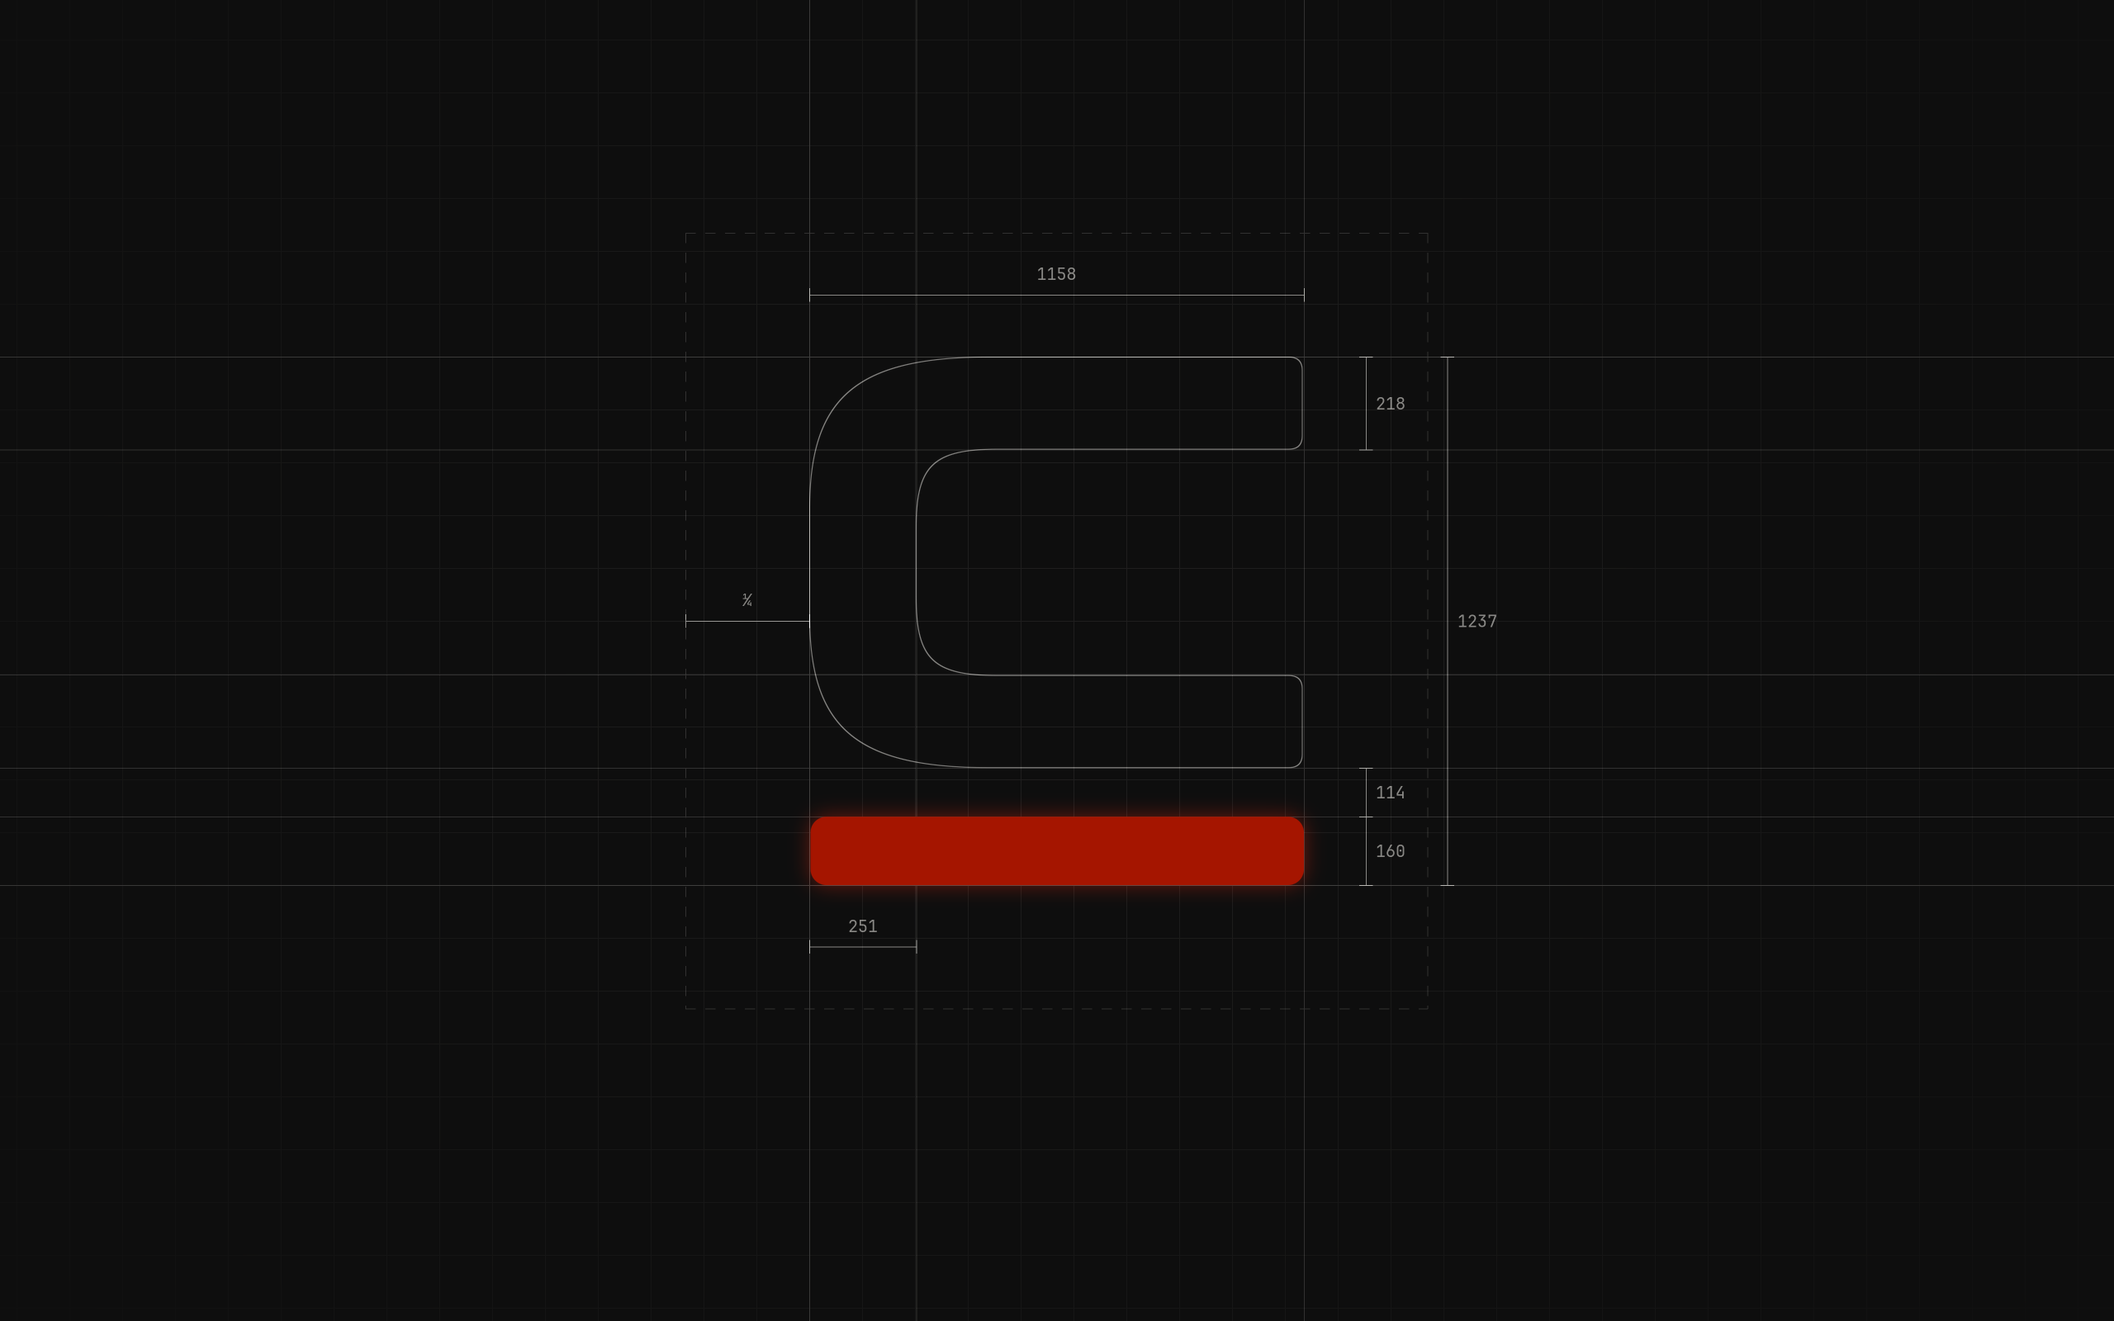
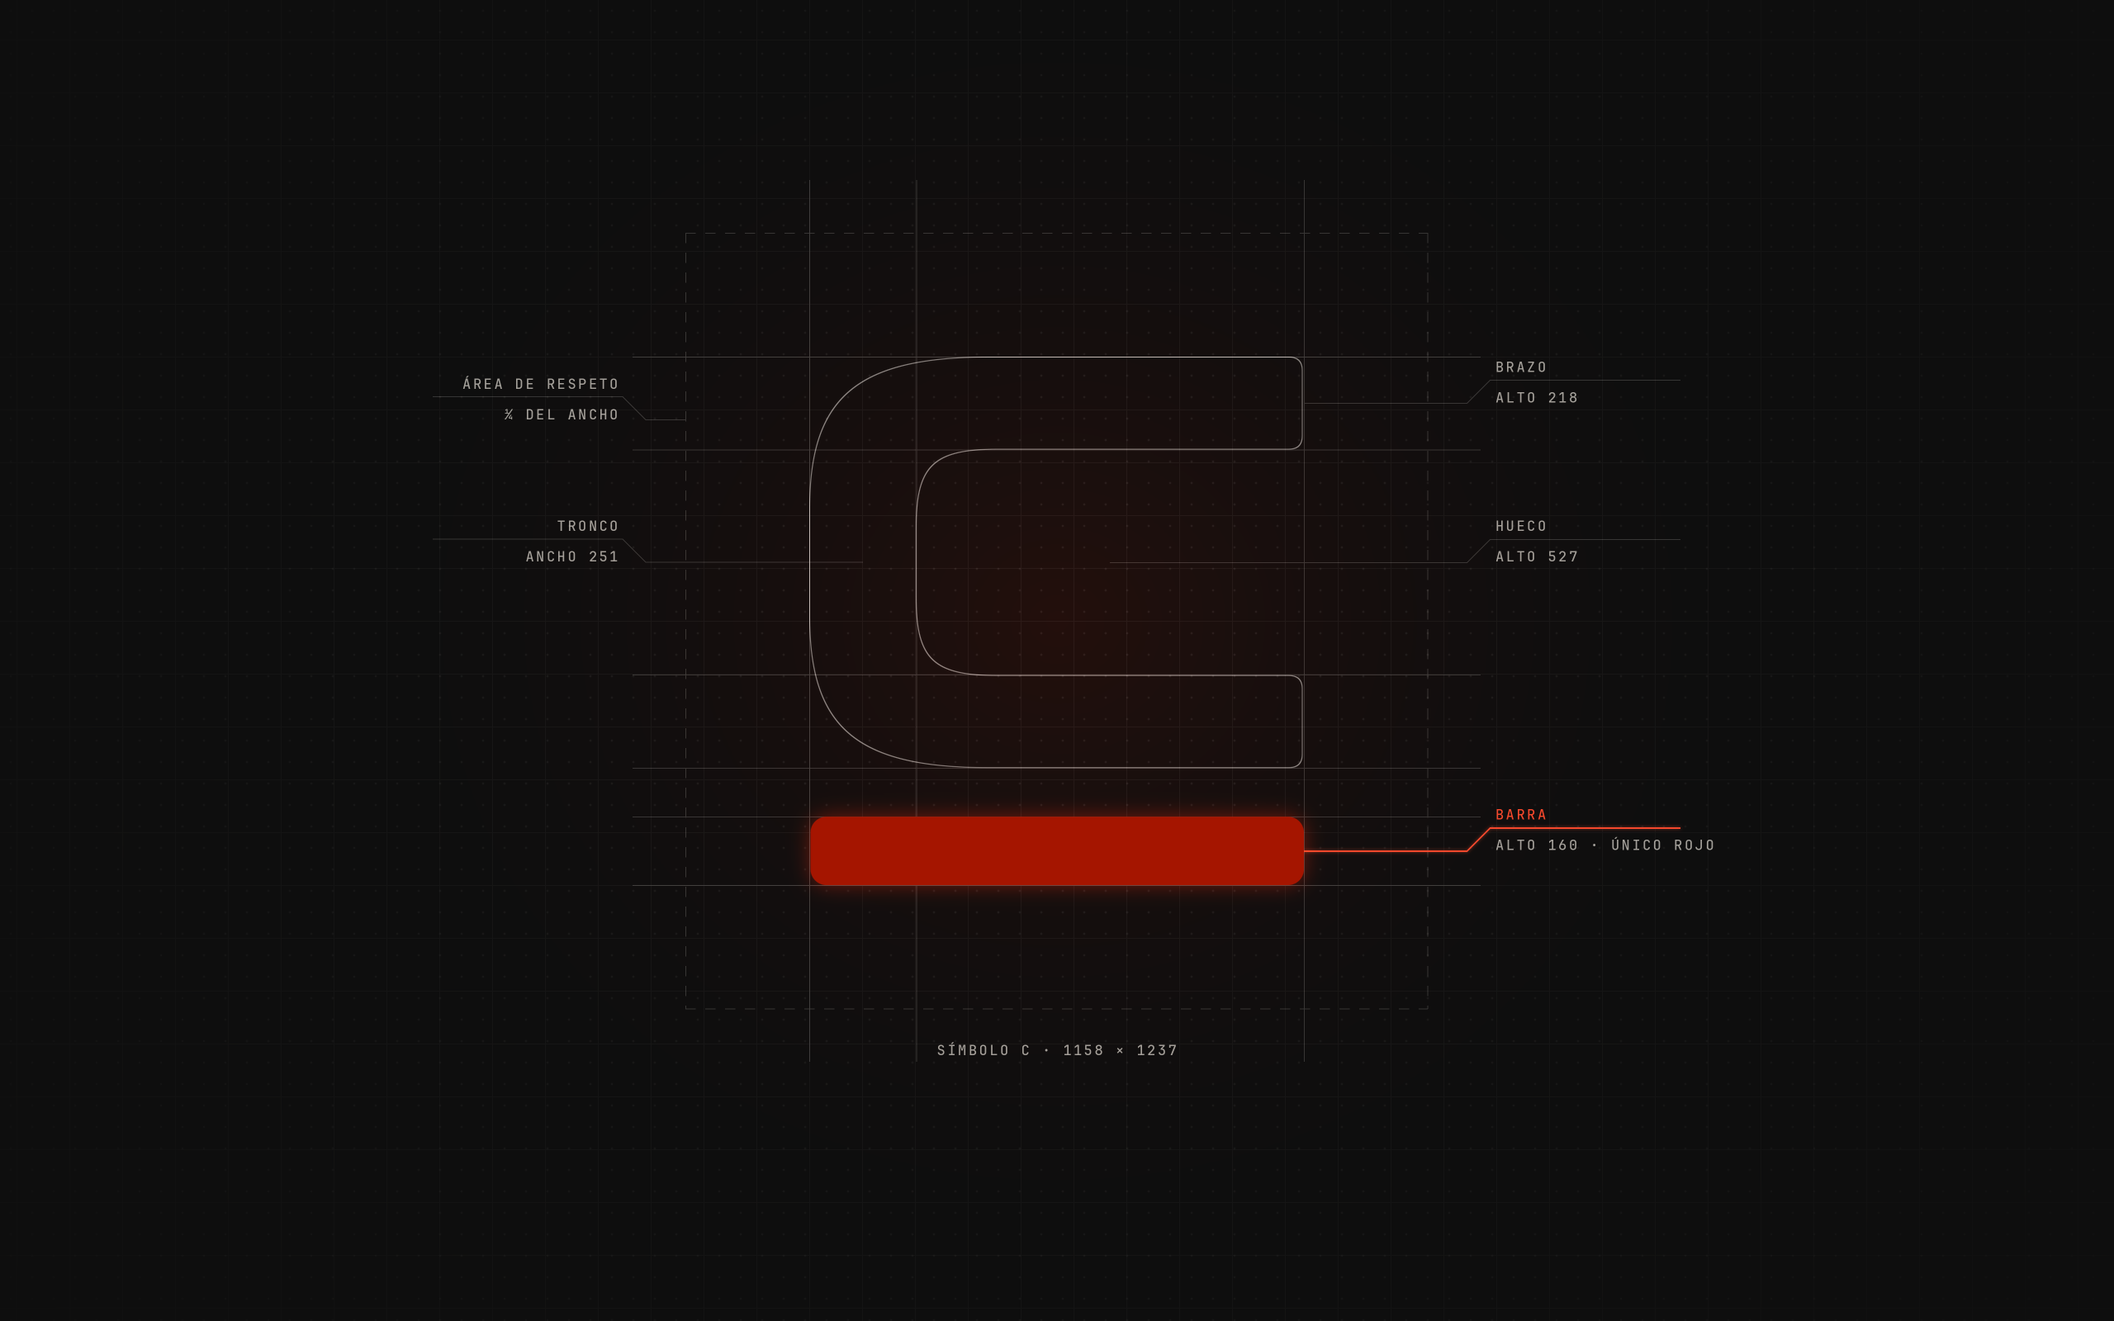
marca: el fondo plano como el plano holográfico de lenguaje.html
El plano pasa a los tokens HUD (--holo .55, --holo-dim .18) y cambia las cotas
por llamadas quebradas con etiqueta mono 500 en mayúsculas, como el héroe del
concepto (decisión del usuario): cada una nombra una pieza real del símbolo y
su medida. La de la barra es la única roja, con el halo de #hudglow. Añade la
retícula de puntos y el degradado rojo al 14 % del héroe. La Medium se toma del
sistema al generar para no subir 2,4 MB de fuente. Decisiones del punto 8 en
docs/decisiones.md.

Changed region(s): [[0.625, 0.625, 0.8125, 0.6562], [0.2188, 0.2812, 0.2812, 0.3125]]

diff --git a/build/make-wallpaper.py b/build/make-wallpaper.py
@@ -3,18 +3,22 @@
 
 - reticula (de serie): la retícula de puntos de 26 px con máscara radial, la C en el centro y un
   degradado rojo muy tenue (14 %) detrás de ella, como el héroe de la web.
-- plano: la construcción real del símbolo sobre la rejilla de 64 px: el contorno de la C, las guías
-  de sus medidas (tronco, brazos, hueco y barra), el área de respeto (¼ del ancho) y las cotas en
-  unidades del viewBox. La barra es lo único rojo.
+- plano: el plano holográfico de lenguaje.html (§ 02) con la construcción real del símbolo, sobre la
+  retícula de puntos y la rejilla de 64 px: el contorno de la C en --holo, las guías de sus medidas
+  (tronco, brazos, hueco y barra) y el área de respeto (¼ del ancho) en --holo-dim, y llamadas
+  quebradas que terminan en una etiqueta mono y explican cada pieza con su medida en unidades del
+  viewBox. La barra es lo único rojo; su llamada, la única en Red Hot, con el halo de #hudglow.
 - void: Void con la retícula muy tenue, sin rojo; fondo del bloqueo, de GRUB y del asistente (ya
   llevan su propio logo encima).
 
-La barra del símbolo es siempre Signal Red, con el único halo permitido (BRAND § 3: desenfoque de
-≈ 2 % del ancho del símbolo, opacidad ≈ 55 %). Colores, solo los de la paleta v2 (tests/marca.sh).
+La barra del símbolo es siempre Signal Red, con su halo (BRAND § 3: desenfoque de ≈ 2 % del ancho
+del símbolo, opacidad ≈ 55 %); el otro halo, el de la llamada roja del plano (BRAND 2.1 § 7.2). Colores, solo los de la paleta v2 (tests/marca.sh).
 Los de escritorio salen en 16:9 (2560x1440, command-<nombre>.png) y 16:10 (2560x1600,
 command-<nombre>-16x10.png): cada pantalla usa el suyo y no se recorta (command-os-wallpaper). La
 composición va en proporción al alto; la retícula y la rejilla, en píxeles fijos. void solo en 16:9:
 es liso y se recorta sin perder nada.
+Las etiquetas del plano van en JetBrains Mono Medium (la de la marca, peso 500): se toma la del sistema
+(ttf-jetbrains-mono-nerd en Arch, o la de Windows); build/fonts solo trae la Regular.
 Uso: python build/make-wallpaper.py [16x9|16x10]   (sin argumento, los dos)
 """
 import sys
@@ -39,10 +43,16 @@ STEEL = rgb("#2A2A2A")
 BONE = rgb("#EDEBE6")
 WHITE = rgb("#FFFFFF")
 SIGNAL = rgb("#A51500")
-LINE_PLAN = 0.55  # --line-plan: Bone al 55 %
-LINE_GUIDE = 0.16  # --line-guide: Bone al 16 %
+RED_HOT = rgb("#F5482C")
+ASH = rgb("#A3A09A")
+HOLO = 0.55  # --holo: Bone al 55 % (trazo del plano)
+HOLO_DIM = 0.18  # --holo-dim: Bone al 18 % (guías y llamadas)
 MARK = Image.open(REPO / "logo" / "command-mark-white.png").convert("RGBA")
-MONO = str(ROOT / "build" / "fonts" / "JetBrainsMono-Regular.ttf")  # OFL, solo para generar
+MEDIUM = [  # JetBrains Mono Medium del sistema (OFL), solo para generar
+    "/usr/share/fonts/TTF/JetBrainsMonoNLNerdFont-Medium.ttf",
+    "C:/Windows/Fonts/JetBrainsMonoNLNerdFont-Medium.ttf",
+    str(Path.home() / "AppData/Local/Microsoft/Windows/Fonts/JetBrainsMonoNLNerdFont-Medium.ttf"),
+]
 
 # Medidas del símbolo en unidades de su viewBox (command-mark.svg, 1158 x 1237; el PNG va a 1:1):
 # tronco de la C, brazos, hueco hasta la barra y barra. Se comprueban contra el PNG al cargarlo.
@@ -134,76 +144,120 @@ def reticula():
 
 
 # --------------------------------------------------------------------- plano
+def mono_medium():
+    for ruta in MEDIUM:
+        if Path(ruta).exists():
+            return ruta
+    sys.exit("falta JetBrains Mono Medium (ttf-jetbrains-mono-nerd): " + ", ".join(MEDIUM))
+
+
 def plano():
     img = np.ones((H, W, 3)) * VOID
     hm = round(H * 0.40)
     s = hm / MH
     cx, cy = W / 2, H * 0.47
     x0, y0 = round(cx - MW * s / 2), round(cy - hm / 2)
-    # La rejilla de 64 px pasa por la esquina del símbolo: el dibujo está construido sobre ella.
-    grid = Image.new("L", (W * SS, H * SS), 0)
+    big = (W * SS, H * SS)
+
+    # Fondo del héroe de lenguaje.html: retícula de puntos y rejilla de 64 px (que pasa por la esquina
+    # del símbolo: el dibujo está construido sobre ella) con máscara radial, y un degradado rojo muy
+    # tenue (≤ 14 %) detrás del símbolo.
+    grid = Image.new("L", big, 0)
     gd = ImageDraw.Draw(grid)
     for x in range(x0 % 64, W, 64):
         gd.line((x * SS, 0, x * SS, H * SS), fill=255, width=SS)
     for y in range(y0 % 64, H, 64):
         gd.line((0, y * SS, W * SS, y * SS), fill=255, width=SS)
     fade = np.clip(1.15 - radial(cx, cy, W * 0.6, H * 0.8), 0, 1)
-    img += (a(grid.resize((W, H), Image.Resampling.BOX)) * fade * 0.07)[..., None] * BONE
+    img += (a(grid.resize((W, H), Image.Resampling.BOX)) * fade * 0.05)[..., None] * BONE
+    img += (dots() * fade * 0.07)[..., None] * (BONE - VOID)
+    red = np.clip(1 - radial(cx, cy, H * 0.55, H * 0.5), 0, 1) ** 2
+    img += (red * 0.14)[..., None] * (SIGNAL - VOID)
 
-    # Guías (--line-guide) a lo largo de todo el plano y área de respeto discontinua.
     u = lambda v: v * s * SS  # unidades del viewBox a píxeles del lienzo grande
     X0, Y0 = x0 * SS, y0 * SS
-    guides = Image.new("L", (W * SS, H * SS), 0)
-    gd = ImageDraw.Draw(guides)
-    for vx in (0, TRONCO, MW):
-        gd.line((X0 + u(vx), 0, X0 + u(vx), H * SS), fill=255, width=SS)
-    for vy in (0, BRAZO, C_ALTO - BRAZO, C_ALTO, BARRA_Y, MH):
-        gd.line((0, Y0 + u(vy), W * SS, Y0 + u(vy)), fill=255, width=SS)
     rl, rt, rr, rb = X0 - u(RESPETO), Y0 - u(RESPETO), X0 + u(MW + RESPETO), Y0 + u(MH + RESPETO)
+    ancho = round(1.5 * SS)  # trazo del plano: 1,2 px a la escala de la referencia
+
+    # Guías (--holo-dim) de las medidas, hasta un poco más allá del área de respeto, y el área de
+    # respeto discontinua.
+    dim = Image.new("L", big, 0)
+    dd = ImageDraw.Draw(dim)
+    margen = 64 * SS
+    for vx in (0, TRONCO, MW):
+        dd.line((X0 + u(vx), rt - margen, X0 + u(vx), rb + margen), fill=255, width=SS)
+    for vy in (0, BRAZO, C_ALTO - BRAZO, C_ALTO, BARRA_Y, MH):
+        dd.line((rl - margen, Y0 + u(vy), rr + margen, Y0 + u(vy)), fill=255, width=SS)
     dash = 12 * SS
-    for t in np.arange(rl, rr, dash * 2):
-        gd.line((t, rt, min(t + dash, rr), rt), fill=255, width=SS)
-        gd.line((t, rb, min(t + dash, rr), rb), fill=255, width=SS)
-    for t in np.arange(rt, rb, dash * 2):
-        gd.line((rl, t, rl, min(t + dash, rb)), fill=255, width=SS)
-        gd.line((rr, t, rr, min(t + dash, rb)), fill=255, width=SS)
-    img += (a(guides.resize((W, H), Image.Resampling.BOX)) * LINE_GUIDE)[..., None] * (BONE - VOID)
+    for t_ in np.arange(rl, rr, dash * 2):
+        dd.line((t_, rt, min(t_ + dash, rr), rt), fill=255, width=SS)
+        dd.line((t_, rb, min(t_ + dash, rr), rb), fill=255, width=SS)
+    for t_ in np.arange(rt, rb, dash * 2):
+        dd.line((rl, t_, rl, min(t_ + dash, rb)), fill=255, width=SS)
+        dd.line((rr, t_, rr, min(t_ + dash, rb)), fill=255, width=SS)
 
-    # Cotas (--line-plan): líneas con topes y la medida en unidades del viewBox.
-    plan = Image.new("L", (W * SS, H * SS), 0)
-    pd = ImageDraw.Draw(plan)
-    font = ImageFont.truetype(MONO, round(H * 0.0125) * SS)
-    tick = 8 * SS
+    # Llamadas: línea quebrada (recta, 45° y recta) que sale de la pieza y termina en su etiqueta mono
+    # en mayúsculas (peso 500, 0,16 em), con la medida debajo. Solo la de la barra va en Red Hot.
+    rojo = Image.new("L", big, 0)
+    rd = ImageDraw.Draw(rojo)
+    texto_ash = Image.new("L", big, 0)
+    texto_rojo = Image.new("L", big, 0)
+    letra = round(H * 0.0105) * SS
+    fuente = ImageFont.truetype(mono_medium(), letra)
+    paso = 0.16 * letra
 
-    def cota_h(xa, xb, y, texto):
-        pd.line((xa, y, xb, y), fill=255, width=SS)
-        for x in (xa, xb):
-            pd.line((x, y - tick, x, y + tick), fill=255, width=SS)
-        pd.text(((xa + xb) / 2, y - tick * 1.5), texto, font=font, fill=255, anchor="md")
+    def escribir(capa, x, y, texto, derecha=False):
+        anchos = [fuente.getlength(c) + paso for c in texto]
+        total = sum(anchos) - paso
+        x = x - total if derecha else x
+        d = ImageDraw.Draw(capa)
+        for c, w in zip(texto, anchos):
+            d.text((x, y), c, font=fuente, fill=255, anchor="ls")
+            x += w
 
-    def cota_v(ya, yb, x, texto, lado=1):
-        pd.line((x, ya, x, yb), fill=255, width=SS)
-        for y in (ya, yb):
-            pd.line((x - tick, y, x + tick, y), fill=255, width=SS)
-        pd.text((x + lado * tick * 1.5, (ya + yb) / 2), texto, font=font, fill=255,
-                anchor="lm" if lado > 0 else "rm")
+    def llamada(px, py, lado, nombre, medida, caliente=False):
+        """Desde (px, py) del lienzo grande hacia `lado` (+1 derecha, -1 izquierda)."""
+        borde = rr if lado > 0 else rl
+        x1 = borde + lado * 48 * SS
+        sube = 28 * SS
+        x2 = x1 + lado * sube
+        x3 = x2 + lado * 230 * SS
+        y2 = py - sube
+        trazo = rd if caliente else dd
+        trazo.line([(px, py), (x1, py), (x2, y2), (x3, y2)], fill=255,
+                   width=round(2 * SS) if caliente else SS, joint="curve")
+        xt = x2 + lado * 6 * SS
+        escribir(texto_rojo if caliente else texto_ash, xt, y2 - 10 * SS, nombre, derecha=lado < 0)
+        escribir(texto_ash, xt, y2 + letra + 10 * SS, medida, derecha=lado < 0)
 
-    top = Y0 - u(RESPETO) / 2
-    cota_h(X0, X0 + u(MW), top, f"{MW}")
-    cota_h(X0, X0 + u(TRONCO), Y0 + u(MH + RESPETO / 2), f"{TRONCO}")
-    cota_h(X0 - u(RESPETO), X0, Y0 + u(MH / 2), "¼")
-    right = X0 + u(MW + RESPETO / 2)
-    cota_v(Y0, Y0 + u(MH), X0 + u(MW + RESPETO) + 24 * SS, f"{MH}")
-    cota_v(Y0, Y0 + u(BRAZO), right, f"{BRAZO}")
-    cota_v(Y0 + u(C_ALTO), Y0 + u(BARRA_Y), right, f"{BARRA_Y - C_ALTO}")
-    cota_v(Y0 + u(BARRA_Y), Y0 + u(MH), right, f"{MH - BARRA_Y}")
-    img += (a(plan.resize((W, H), Image.Resampling.BOX)) * LINE_PLAN)[..., None] * (BONE - VOID)
+    llamada(X0 + u(MW), Y0 + u(BRAZO / 2), +1, "BRAZO", f"ALTO {BRAZO}")
+    llamada(X0 + u((TRONCO + MW) / 2), Y0 + u(C_ALTO / 2), +1, "HUECO", f"ALTO {C_ALTO - 2 * BRAZO}")
+    llamada(X0 + u(MW), Y0 + u((BARRA_Y + MH) / 2), +1, "BARRA", f"ALTO {MH - BARRA_Y} · ÚNICO ROJO",
+            caliente=True)
+    llamada(X0 + u(TRONCO / 2), Y0 + u(C_ALTO / 2), -1, "TRONCO", f"ANCHO {TRONCO}")
+    llamada(rl, Y0 + u(MH * 0.12), -1, "ÁREA DE RESPETO", "¼ DEL ANCHO")
+    pie = f"SÍMBOLO C · {MW} × {MH}"
+    escribir(texto_ash, (X0 + u(MW / 2)) - sum(fuente.getlength(c) + paso for c in pie) / 2 + paso / 2,
+             rb + 56 * SS, pie)
 
-    # El símbolo dibujado en línea (--line-plan) y la barra, lo único rojo, con su halo.
+    baja = lambda capa: a(capa.resize((W, H), Image.Resampling.BOX))
+    img += (baja(dim) * HOLO_DIM)[..., None] * (BONE - VOID)
+    img += (baja(texto_ash))[..., None] * (ASH - VOID)
+
+    # El símbolo dibujado en línea (--holo).
     c, bar = mark_masks(hm)
     cm = place(c, x0, y0)
     edge = np.clip(a(cm) - a(cm.filter(ImageFilter.MinFilter(3))), 0, 1)
-    img += (edge * LINE_PLAN)[..., None] * (BONE - VOID)
+    img += (edge * HOLO)[..., None] * (BONE - VOID)
+
+    # La llamada roja con el halo de #hudglow (feGaussianBlur 2, opacidad .5) y su etiqueta.
+    r = baja(rojo)
+    img += (a(Image.fromarray((r * 255).astype(np.uint8)).filter(ImageFilter.GaussianBlur(2))) * 0.5)[..., None] * RED_HOT
+    img = img * (1 - r[..., None]) + r[..., None] * RED_HOT
+    tr = baja(texto_rojo)[..., None]
+    img = img * (1 - tr) + tr * RED_HOT
+
+    # La barra, lo único rojo del símbolo, en Signal Red con su halo.
     bm = place(bar, x0, y0)
     img += a(bm.filter(ImageFilter.GaussianBlur(0.02 * c.width)))[..., None] * SIGNAL * 0.55
     bma = a(bm)[..., None]

diff --git a/docs/decisiones.md b/docs/decisiones.md
@@ -3,6 +3,23 @@
 Decisiones no obvias: qué se decidió, por qué y qué se descartó, para no reabrirlas. Las anteriores
 al 2026-10-07 están repartidas por `docs/` y `AGENTS.md` («Qué se probó y qué se descartó»).
 
+## 2026-10-20 — command-os como `lenguaje.html` (punto 8 del roadmap)
+
+- **El objetivo es que se vea y se use como el concepto**, no solo que cumpla las reglas: las líneas
+  finas de lo activo en Red Hot (Signal Red solo en superficies), el hover con filo Red Hot y
+  `#B81A02` en el principal, Alt+Tab con la tarjeta seleccionada `#1A1311`.
+- **Etiquetas, lecturas, estados y botones en mono 500 y mayúsculas** (decisión del usuario). El CSS de
+  GTK no tiene `text-transform`: en Python, `comun.fila` y `comun.boton` hacen `.upper()`; en Waybar y
+  hyprlock, `text_transform` de Pango. Las traducciones siguen en minúsculas (msgid sin cambios).
+  Los mensajes en tono terminal (`› sistema listo`) siguen en minúsculas (BRAND § 2).
+- **LED de la barra como degradado radial de fondo** del módulo (red, Bluetooth conectado, versión
+  nueva): Waybar no tiene otro elemento donde ponerlos. Descartado un `●` de Pango (sin halo) y un
+  módulo aparte por LED (más procesos y se separa de su texto).
+- **El plano lleva llamadas en vez de cotas** (decisión del usuario), como el héroe del concepto; cada
+  una dice la pieza y su medida real. Etiquetas en castellano en todos los idiomas (el PNG es uno).
+- **Los paneles pequeños de wofi (energía, atajos, acerca de) siguen en mono**: la ayuda y «acerca de»
+  alinean columnas con espacios. Descartado Geist (como la paleta), que las desalinea.
+
 ## 2026-10-20 — Marca 2.1 (lenguaje HUD) en `tests/marca.sh`
 
 - **`lenguaje.html` manda** (BRAND 2.1): ante una duda de cómo se ve algo, se mira ahí antes que en

diff --git a/docs/DISENO.md b/docs/DISENO.md
@@ -181,14 +181,17 @@ fondo de pantalla en el menú del escritorio):
 
 - **retícula** (de serie): la retícula de puntos de 26 px (Steel sobre Void) con máscara radial, la C
   en el centro y un degradado rojo radial al 14 % detrás de ella, como el héroe de la web.
-- **plano**: la construcción real del símbolo sobre la rejilla de 64 px (que pasa por su esquina): el
-  contorno de la C en `--line-plan`, las guías de sus medidas en `--line-guide` (tronco, brazos, hueco
-  y barra), el área de respeto discontinua (¼ del ancho) y las cotas en unidades del `viewBox`
-  (1158 × 1237). La barra es lo único rojo.
+- **plano**: el plano holográfico del héroe de `lenguaje.html` (§ 02) con la construcción real del
+  símbolo, sobre la retícula de puntos, la rejilla de 64 px (que pasa por su esquina) y el degradado
+  rojo al 14 %: el contorno de la C en `--holo`, las guías de sus medidas (tronco, brazos, hueco y
+  barra) y el área de respeto discontinua (¼ del ancho) en `--holo-dim`, y **llamadas** quebradas que
+  terminan en una etiqueta mono 500 en mayúsculas con la medida de la pieza en unidades del `viewBox`
+  (1158 × 1237). La barra es lo único rojo del símbolo; su llamada, la única en Red Hot, con el halo de
+  `#hudglow`. Las etiquetas van en castellano (el idioma principal de la marca) en todos los idiomas.
 - **void**: Void con la retícula muy tenue y sin rojo; solo para el bloqueo, GRUB y el asistente, que
   ya llevan el logo encima.
 
-La barra del símbolo es siempre Signal Red y lleva el único halo (2 % del ancho, 55 %). En PNG sin
+La barra del símbolo es siempre Signal Red y lleva su halo (2 % del ancho, 55 %). En PNG sin
 grano (de 30 a 110 KB).
 
 ## Movimiento

diff --git a/docs/notas/escritorio.md b/docs/notas/escritorio.md
@@ -195,9 +195,9 @@ ni sirve ni aporta ambiente. Detalle visual en `docs/DISENO.md`. El usuario pidi
 antes de cada cambio y que se le notifique (PushNotification) cuando haga falta su decisión.
 - **Fondos** (`build/make-wallpaper.py`, numpy y Pillow): con la marca v2, **no paisajes** (el usuario
   rechazó skyline y mapa). `reticula` (de serie) y `plano`, y `void` para el bloqueo, GRUB y el
-  asistente, todos en PNG (sin grano pesan poco). Las cotas de `plano`, con JetBrains Mono de
-  `build/fonts/` (OFL, solo para generar); sus medidas del símbolo se comprueban contra el PNG del
-  logo al generar. Selector `os/bin/command-os-wallpaper` (elección en `~/.config/command-os/wallpaper`;
+  asistente, todos en PNG (sin grano pesan poco). Las llamadas de `plano`, con la JetBrains Mono Medium del
+  sistema (`ttf-jetbrains-mono-nerd`, o la de Windows; solo para generar); sus medidas del símbolo se
+  comprueban contra el PNG del logo al generar. Selector `os/bin/command-os-wallpaper` (elección en `~/.config/command-os/wallpaper`;
   un nombre que ya no está en la lista, como los de antes de la v2, vuelve al de serie), lo llama
   `autostart` y el menú ajustes → fondo de pantalla. `.gitattributes`: `*.png binary` en
   `os/branding/` (si no, la regla de texto los corrompería). Para generarlos en Windows, numpy y
